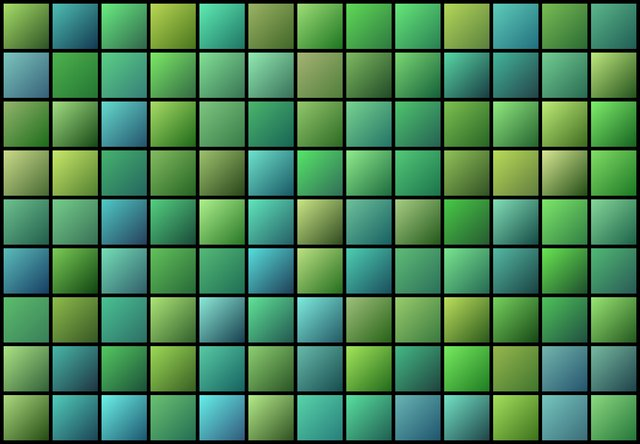
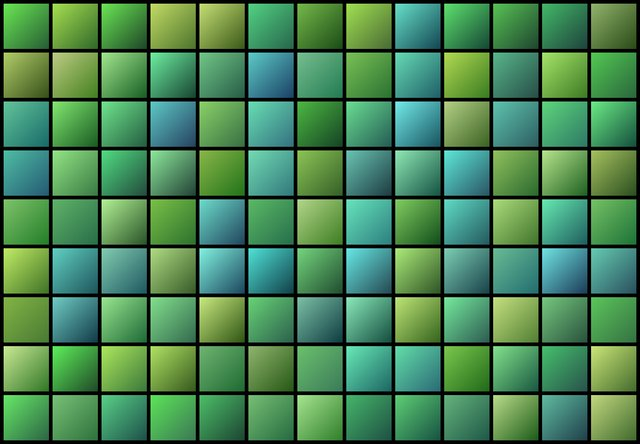
Layouts: big centrepieces

diff --git a/scripts/layout.py b/scripts/layout.py
@@ -1,8 +1,9 @@
 """Grid layouts: how many tiles of an aspect ratio fit around a centrepiece. Pure, used by collage.py (and its --grid).
 
 A layout is "COLSxROWS/CENTRE": 13x9/5 = 13 columns, 9 rows and a 5x5 centrepiece in the middle (today's default), or
-"auto": the largest layout the project's items can fill. The centrepiece is a square block of cells, so it has the tiles'
-ratio too, and it sits exactly in the middle: cols - centre and rows - centre are even. Tiles get their size from
+"auto": the largest grid the project's items can fill, with the biggest centrepiece that grid has. The centrepiece is a
+square block of cells, so it has the tiles' ratio too, and it sits exactly in the middle: cols - centre and rows - centre
+are even. It can be as tall as the grid (13x5/5: no row above or below it). Tiles get their size from
 canvasWidth (1412 = 13 tiles of 100 + gaps of 8), so the collage stays about as wide whatever the layout.
 """
 import re
@@ -10,7 +11,11 @@ import re
 LAYOUT = re.compile(r"^\s*(\d+)\s*x\s*(\d+)\s*(?:/\s*(\d+))?\s*$")
 # canvas width / height a background can have, from a squarish screen to a wide one
 MIN_SHAPE, MAX_SHAPE = 1.2, 1.9
-IDEAL_SHAPE = 1.6
+# what auto prefers: a widescreen shape (backgrounds and Meet are 16:9), closest to IDEAL_SHAPE when it has to choose
+WIDE_SHAPE = 1.6
+IDEAL_SHAPE = 16 / 9
+# the biggest centrepiece auto picks covers at most this share of the grid's cells (13x5/5 is 38%), bigger ones only by hand
+MAX_CENTRE_SHARE = 0.4
 # below this (short side, in pixels) a tile is too small to make out
 MIN_TILE = 90
 DEFAULT_LAYOUT = "13x9/5"
@@ -37,7 +42,8 @@ def tile_size(col, aspect, canvas_width=DEFAULT_CANVAS_WIDTH, gap=DEFAULT_GAP):
 
 
 def centre_size(row):
-    """The centrepiece for a number of rows: about half the height, rows - centre even, at least 1 row above and below."""
+    """The smallest centrepiece for a number of rows: about half the height, rows - centre even, at least 1 row above and
+    below. Bigger ones, up to the full height, are layouts too."""
     size = row - 2
     while size > 0 and size / row > 0.67:
         size -= 2
@@ -57,31 +63,44 @@ def describe(col, row, size, aspect, canvas_width=DEFAULT_CANVAS_WIDTH, gap=DEFA
 
 
 def layouts(aspect, canvas_width=DEFAULT_CANVAS_WIDTH, gap=DEFAULT_GAP, max_rows=12, max_cols=40):
-    """The even layouts with a centrepiece for this ratio, fewest items first."""
+    """The even layouts with a centrepiece for this ratio, fewest items first: per number of rows every centre size from
+    centre_size(row) up to the full height, with at least one column on each side."""
     found = []
     for row in range(3, max_rows + 1):
-        size = centre_size(row)
-        if not size:
+        smallest = centre_size(row)
+        if not smallest:
             continue
-        for col in range(size + 2, max_cols + 1, 2):
-            layout = describe(col, row, size, aspect, canvas_width, gap)
-            if min(layout["tile"]) < MIN_TILE:
-                break
-            if MIN_SHAPE <= layout["shape"] <= MAX_SHAPE:
-                found.append(layout)
+        for size in range(smallest, row + 1, 2):
+            for col in range(size + 2, max_cols + 1, 2):
+                layout = describe(col, row, size, aspect, canvas_width, gap)
+                if min(layout["tile"]) < MIN_TILE:
+                    break
+                if MIN_SHAPE <= layout["shape"] <= MAX_SHAPE:
+                    found.append(layout)
     return sorted(found, key=lambda layout: (layout["needed"], abs(layout["shape"] - IDEAL_SHAPE)))
 
 
 def auto_layout(aspect, items, canvas_width=DEFAULT_CANVAS_WIDTH, gap=DEFAULT_GAP):
-    """The largest layout items can fill (closest to a 16:10 screen when two are as large), else the smallest one."""
+    """Of the layouts items can fill: the largest grid, with the biggest centrepiece it has up to MAX_CENTRE_SHARE of the
+    cells (a bigger centre needs fewer items), closest to 16:9 when two are as large. Widescreen ones (WIDE_SHAPE and up)
+    first, unless their grid is much smaller. When items fill none, the smallest layout."""
     candidates = layouts(aspect, canvas_width, gap)
     if not candidates:  # a ratio too narrow or too wide for any background: the default grid, with that ratio's tiles
         return describe(*parse_layout(DEFAULT_LAYOUT), aspect, canvas_width, gap)
-    fitting = [layout for layout in candidates if layout["needed"] <= items]
+    fitting = [layout for layout in candidates
+               if layout["needed"] <= items and layout["size"] ** 2 <= MAX_CENTRE_SHARE * layout["col"] * layout["row"]]
     if not fitting:
         return candidates[0]
-    most = max(layout["needed"] for layout in fitting)
-    return min((layout for layout in fitting if layout["needed"] == most), key=lambda layout: abs(layout["shape"] - IDEAL_SHAPE))
+    def best(options):
+        return max(options, key=lambda layout: (layout["col"] * layout["row"], layout["size"], -abs(layout["shape"] - IDEAL_SHAPE)))
+
+    def area(layout):
+        return layout["col"] * layout["row"]
+
+    largest = best(fitting)
+    wide = [layout for layout in fitting if layout["shape"] >= WIDE_SHAPE]
+    # widescreen unless that grid is much smaller (a small project would get a tiny one)
+    return best(wide) if wide and area(best(wide)) >= 0.7 * area(largest) else largest
 
 
 def resolve(collage, aspect, items, override=None):
@@ -103,18 +122,22 @@ def resolve(collage, aspect, items, override=None):
     }
 
 
-def grid_table(aspect, items, canvas_width=DEFAULT_CANVAS_WIDTH, gap=DEFAULT_GAP, limit=12):
-    """The text --grid prints: the layouts around the project's item count, the ones it can fill marked."""
+def grid_table(aspect, items, canvas_width=DEFAULT_CANVAS_WIDTH, gap=DEFAULT_GAP, limit=16):
+    """The text --grid prints: the layouts around the project's item count, the ones it can fill marked, auto's pick too."""
     candidates = layouts(aspect, canvas_width, gap)
+    picked = auto_layout(aspect, items, canvas_width, gap)
     fitting = [layout for layout in candidates if layout["needed"] <= items]
-    # the ones it fills plus the next few bigger ones
-    shown = fitting[-(limit - 3):] + [layout for layout in candidates if layout["needed"] > items][:3]
+    # the ones it fills plus the next few bigger ones, and auto's pick even when it needs fewer items
+    shown = fitting[-(limit - 4):] + [layout for layout in candidates if layout["needed"] > items][:4]
+    if picked in candidates and picked not in shown:
+        shown = sorted(shown + [picked], key=candidates.index)
     lines = [f"Layouts for {aspect[0]}:{aspect[1]} tiles, {items} items (--layout <layout> to try one):", "",
-             f"  {'layout':<9} {'items':>5}  {'tile':>9}  {'canvas':>9}  shape",]
+             f"  {'layout':<9} {'items':>5}  {'tile':>9}  {'canvas':>9}  shape  centre",]
     for layout in shown:
         mark = "✓" if layout["needed"] <= items else " "
+        centre = f"{layout['size']}/{layout['row']} rows"
         lines.append(f"{mark} {layout['layout']:<9} {layout['needed']:>5}  {layout['tile'][0]:>4}x{layout['tile'][1]:<4}"
-                     f"  {layout['canvas'][0]:>4}x{layout['canvas'][1]:<4}  {layout['shape']:.2f}")
-    picked = auto_layout(aspect, items, canvas_width, gap)
+                     f"  {layout['canvas'][0]:>4}x{layout['canvas'][1]:<4}  {layout['shape']:.2f}   {centre}"
+                     f"{'  <- auto' if layout == picked else ''}")
     lines += ["", f"auto picks {picked['layout']} - save one with \"collage\": {{ \"layout\": \"{picked['layout']}\" }} in projects.json"]
     return "\n".join(lines)

diff --git a/test/test_layout.py b/test/test_layout.py
@@ -62,10 +62,18 @@ class LayoutsTest(unittest.TestCase):
                 self.assertTrue(1.2 <= layout["shape"] <= 1.9)
                 self.assertGreaterEqual(min(layout["tile"]), 90)
 
-    def test_auto_picks_the_largest_layout_the_items_fill(self):
-        self.assertEqual(auto_layout((2, 3), 47)["layout"], "11x5/3")
-        self.assertEqual(auto_layout((2, 3), 40)["layout"], "10x4/2", "37 posters, closer to 16:10 than 9x5/3")
-        self.assertEqual(auto_layout((2, 3), 5)["layout"], "7x3/1", "too few: the smallest one")
+    def test_big_centres_are_layouts_too(self):
+        self.assertIn("13x5/5", self.needed((2, 3)), "a centre as tall as the grid")
+        self.assertIn("13x7/5", self.needed((1, 1)))
+        self.assertEqual(self.needed((1, 1))["13x7/5"], 67)
+
+    def test_auto_picks_the_largest_widescreen_grid_with_the_biggest_centre(self):
+        self.assertEqual(auto_layout((2, 3), 60)["layout"], "13x5/5", "the same grid as 13x5/3, a bigger centre")
+        self.assertEqual(auto_layout((2, 3), 200)["layout"], "13x5/5", "widescreen over a bigger but tall grid")
+        self.assertEqual(auto_layout((1, 1), 67)["layout"], "13x7/5")
+        self.assertEqual(auto_layout((1, 1), 200)["layout"], "14x8/6", "not 14x8/8: at most 40% centre")
+        self.assertEqual(auto_layout((1, 1), 30)["layout"], "7x5/3", "a small project: a bigger grid over a tiny widescreen one")
+        self.assertEqual(auto_layout((2, 3), 5)["layout"], "7x3/3", "too few: the one that needs the fewest")
 
     def test_parse_layout(self):
         self.assertEqual(parse_layout("13x9/5"), (13, 9, 5))
@@ -78,7 +86,7 @@ class LayoutsTest(unittest.TestCase):
         grid = resolve({"layout": "11x5/3"}, (2, 3), 47)
         self.assertEqual((grid["col"], grid["row"], grid["width"], grid["height"]), (11, 5, 119, 178))
         self.assertEqual(grid["center"], {"col": 4, "row": 1, "size": 3})
-        self.assertEqual(resolve({"layout": "auto"}, (2, 3), 47)["layout"], "11x5/3")
+        self.assertEqual(resolve({"layout": "auto"}, (2, 3), 47)["layout"], "13x5/5")
 
     def test_settings_from_before_layouts_are_ignored(self):
         old = {"col": 4, "row": 3, "width": 10, "height": 10, "center": {"col": 1, "row": 1, "size": 1}}
@@ -90,7 +98,8 @@ class LayoutsTest(unittest.TestCase):
         table = grid_table((2, 3), 47)
         self.assertIn("✓ 11x5/3", table)
         self.assertIn("  13x5/3", table)
-        self.assertIn("auto picks 11x5/3", table)
+        self.assertIn("auto picks 13x5/5", table)
+        self.assertIn("13x5/5       41   100x150   1412x798   1.77   5/5 rows  <- auto", table)
 
 
 if __name__ == "__main__":

diff --git a/README.md b/README.md
@@ -61,21 +61,21 @@ npm run random-meet -- -p mix        # a project from the mix
 
 ## Layouts
 
-A layout is *columns* × *rows* / *centrepiece*, counted in tiles. `auto` picks the largest layout your items can fill, so the grid grows with the project. Tiles are cropped to the project's shape, never stretched.
+A layout is *columns* × *rows* / *centrepiece*, counted in tiles. The centrepiece can be as tall as the grid: `13x5/5` has no row above or below it. `auto` picks the largest widescreen grid your items can fill, with the biggest centrepiece it has, so the grid grows with the project. Tiles are cropped to the project's shape, never stretched.
 
 | | |
 |---|---|
 | ![13 by 9 tiles around a 5 by 5 centrepiece](docs/images/default.jpg) | ![7 by 5 tiles around a 3 by 3 centrepiece](docs/images/small.jpg) |
 | `13x9/5`, the default (93 items) | `auto` with 30 items: `7x5/3` |
-| ![11 by 5 portrait tiles around a 3 by 3 centrepiece](docs/images/posters.jpg) | ![13 by 9 tiles, no centrepiece](docs/images/fill.jpg) |
-| `auto` with 2:3 posters (TMDb's default): `11x5/3` | `--fill`: no centrepiece |
+| ![13 by 5 portrait tiles around a 5 by 5 centrepiece as tall as the grid](docs/images/posters.jpg) | ![13 by 9 tiles, no centrepiece](docs/images/fill.jpg) |
+| `auto` with 2:3 posters (TMDb's default): `13x5/5` | `--fill`: no centrepiece |
 
 ```sh
 npm run collage -- --grid              # the layouts that fit the project, and how many items each needs
-npm run collage -- --layout 11x5/3     # try one
+npm run collage -- --layout 13x7/5     # try one
 ```
 
-To keep a layout, set it for the project in `projects.json`: `"collage": { "layout": "11x5/3" }`.
+To keep a layout, set it for the project in `projects.json`: `"collage": { "layout": "13x7/5" }`.
 
 ## Configuration
 

diff --git a/docs/reference.md b/docs/reference.md
@@ -26,7 +26,7 @@ Created by `npm run setup` from [`.example.env`](../.example.env). Never commit 
 | `aspect` | The shape of the tiles: `1:1` (default), `2:3` (TMDb, posters), `3:2`, `16:9`, ... Images are cropped to it around the middle, never stretched |
 | `imageSize` | The long side of the copies in `images/` (`640`, TMDb `960`, big enough for the centrepiece). They're made again by themselves when this or `aspect` changes |
 | `allowMix` | Whether `-p mix` may pick the project (`true`) |
-| `collage.layout` | The grid: `COLSxROWS/CENTRE` like `13x9/5` (default), or `auto` (TMDb's default). See [Layouts](../README.md#layouts) |
+| `collage.layout` | The grid: `COLSxROWS/CENTRE` like `13x9/5` (default), or `auto` (TMDb's default): the largest grid the project's images fill, widescreen (shape 1.6 and up) unless that grid would be much smaller, with the biggest centrepiece up to 40% of the cells. `npm run collage -- --grid` lists them all. See [Layouts](../README.md#layouts) |
 | `collage.canvasWidth` | About how wide the collage is, in pixels (`1412`). The tiles get their size from it |
 | `collage.gap` | Pixels between the tiles (`8`) |
 | `collage.scale` | How many times each tile is enlarged without smoothing, for a pixel look (`1`) |
